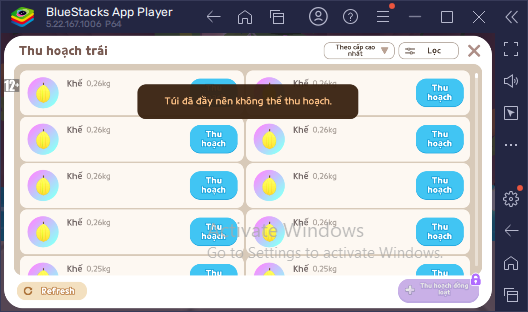
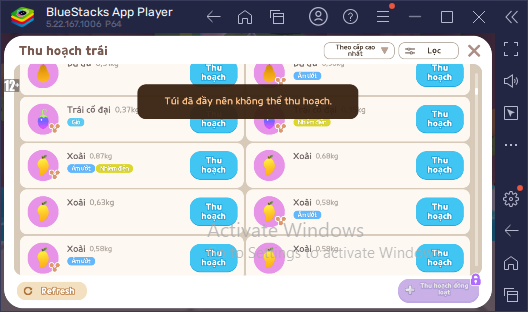
update

Changed region(s): [[0.0303, 0.2019, 0.9091, 0.8942]]

diff --git a/main.py b/main.py
@@ -620,24 +620,14 @@ def handle_sell_auto_select(context: BotContext) -> None:
         )
         validation_frame = capture_frame(context)
 
-        if sync_state_from_visible_screen(context, validation_frame):
-            sleep_random(context.config["timing"]["post_navigation_wait_seconds"])
-            return
-
-        if is_sell_bottom_submit_visible(context, validation_frame):
-            log("Da co nut xanh so tien sau buoc 'Chon tu dong'. Bam ngay nut xanh de ban.")
-            click_sell_bottom_submit_and_route(context, validation_frame)
+        log("Da bam 'Chon tu dong'. Bam ngay nut xanh so tien ben canh de ban.")
+        if click_sell_bottom_submit_and_route(context, validation_frame):
             return
 
         sleep_random(context.config["timing"]["button_retry_delay_seconds"])
         validation_frame = capture_frame(context)
-        if sync_state_from_visible_screen(context, validation_frame):
-            sleep_random(context.config["timing"]["post_navigation_wait_seconds"])
-            return
-
-        if is_sell_bottom_submit_visible(context, validation_frame):
-            log("Nut xanh so tien xuat hien sau mot nhip doi them.")
-            click_sell_bottom_submit_and_route(context, validation_frame)
+        log("Thu lai nut xanh so tien sau mot nhip doi them.")
+        if click_sell_bottom_submit_and_route(context, validation_frame):
             return
 
         if is_sell_screen_close_visible(context, validation_frame) and is_sell_auto_select_visible(context, validation_frame):